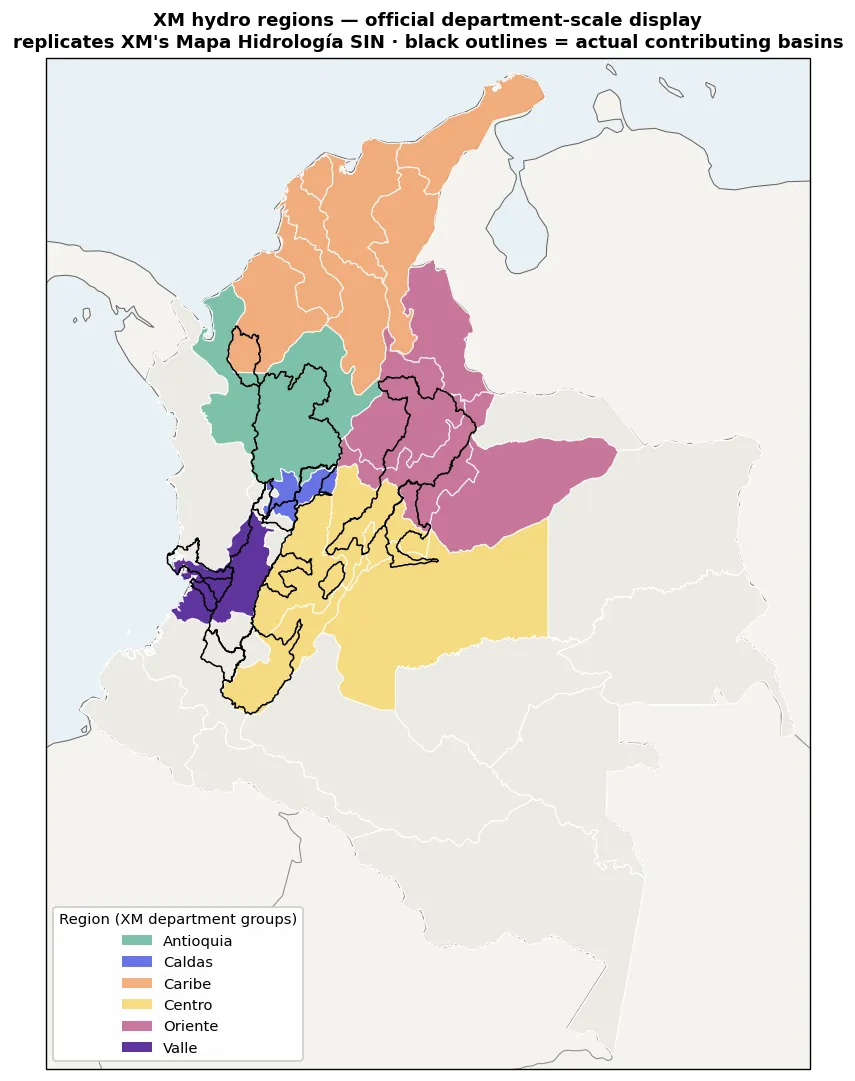
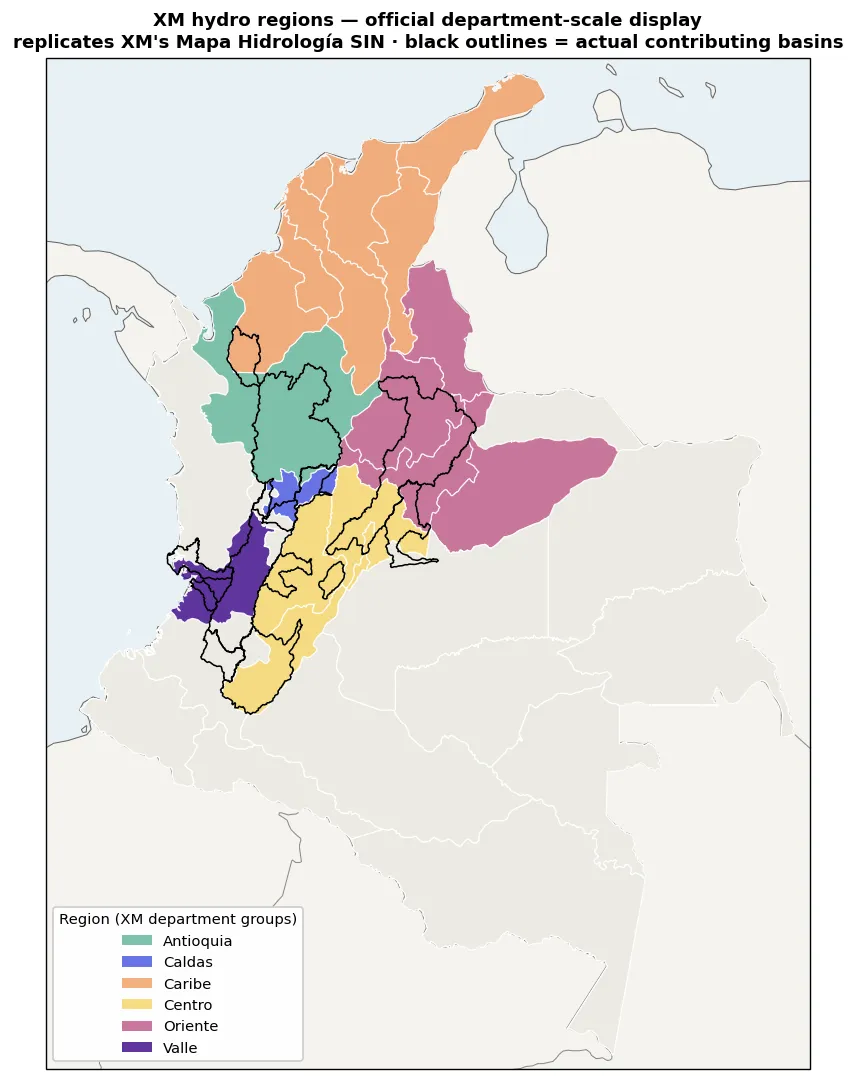
Colombia hydro: Centro display group is 3 departments (drop Meta)

Changed region(s): [[0.3649, 0.4579, 0.6386, 0.6716]]

diff --git a/scripts/sst/render_hydro_maps.py b/scripts/sst/render_hydro_maps.py
@@ -40,7 +40,7 @@ XM_DEPTS = {
     "CALDAS": ["Caldas"],
     "CARIBE": ["La Guajira", "Cesar", "Magdalena", "Atlántico", "Bolívar",
                "Sucre", "Córdoba"],
-    "CENTRO": ["Cundinamarca", "Bogota", "Tolima", "Huila", "Meta"],
+    "CENTRO": ["Cundinamarca", "Bogota", "Tolima", "Huila"],
     "ORIENTE": ["Santander", "Norte de Santander", "Boyacá", "Casanare"],
     "VALLE": ["Valle del Cauca"],
 }
